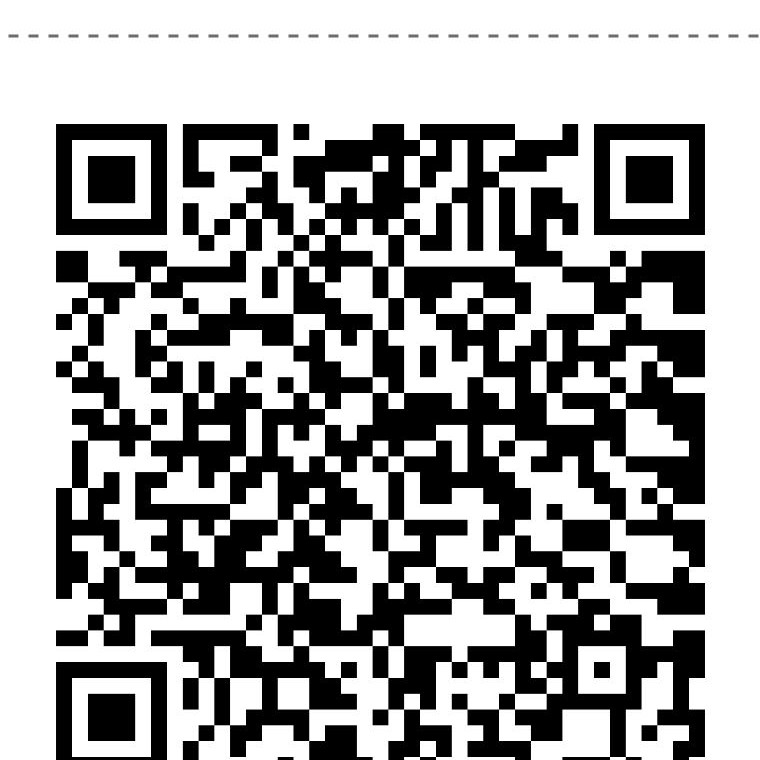
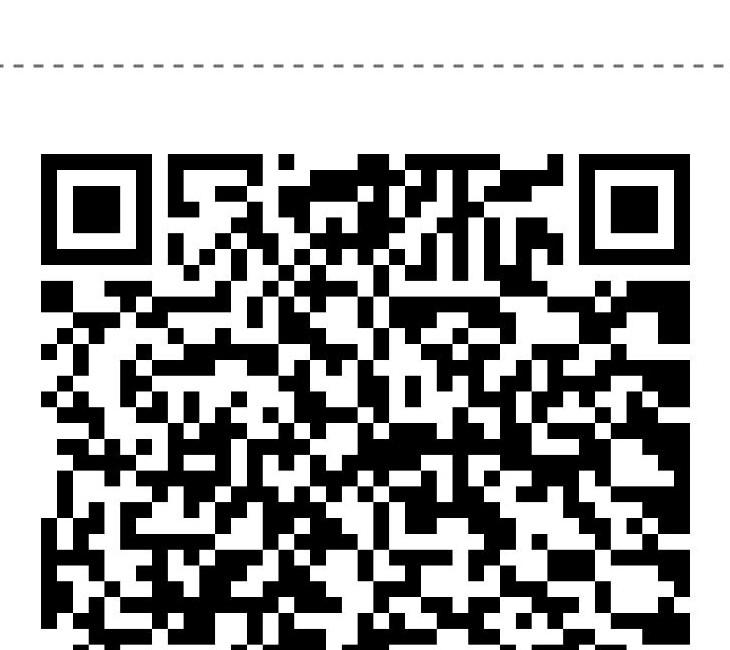
Add files via upload

diff --git a/index.html b/index.html
@@ -539,7 +539,7 @@
       <p>O <strong>Vira o Jogo</strong> é um projeto independente criado para levar educação financeira gratuita para quem mais precisa. Se este conteúdo fez diferença pra você, considere apoiar com qualquer valor — até R$1 já ajuda a manter esse projeto vivo.</p>
 
       <div class="pix-key-label">Escaneie o QR Code para apoiar</div>
-      <img src="qrcode-pix-crop.jpg" alt="QR Code Pix Vira o Jogo" style="width:220px; height:220px; object-fit:cover; border-radius:16px; margin: 16px auto; display:block; border: 3px solid #00d46e;" />
+      <img src="qrcode-pix-crop.jpg?v=2" alt="QR Code Pix Vira o Jogo" style="width:220px; height:220px; object-fit:cover; border-radius:16px; margin: 16px auto; display:block; border: 3px solid #00d46e;" />
       <div class="pix-copy-hint" style="margin-top:12px;">Abra o app do seu banco e escaneie o QR Code</div>
 
       <p class="pix-note" style="margin-top:16px;">Qualquer valor é bem-vindo e 100% voluntário. Obrigado por acreditar neste projeto!</p>
